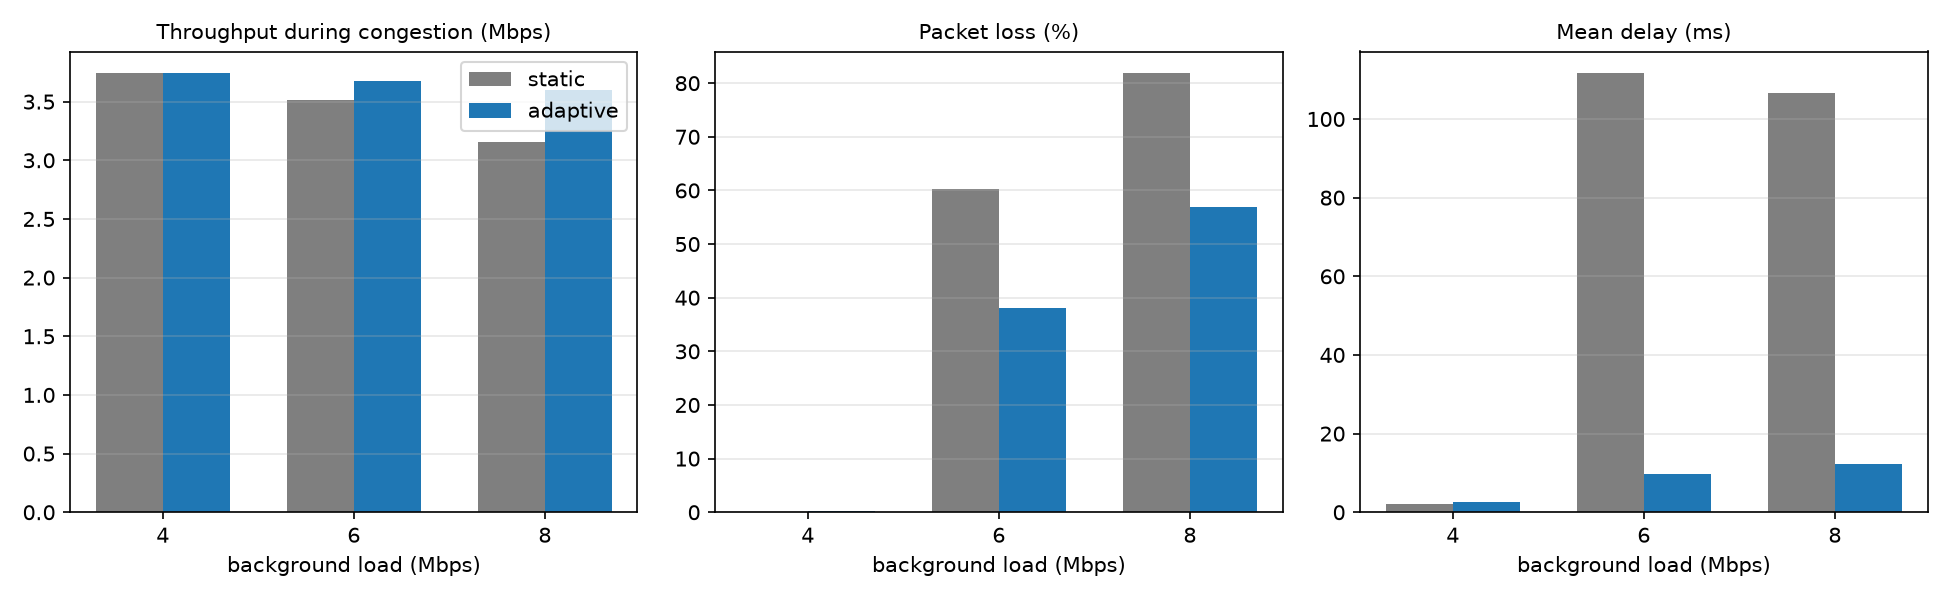
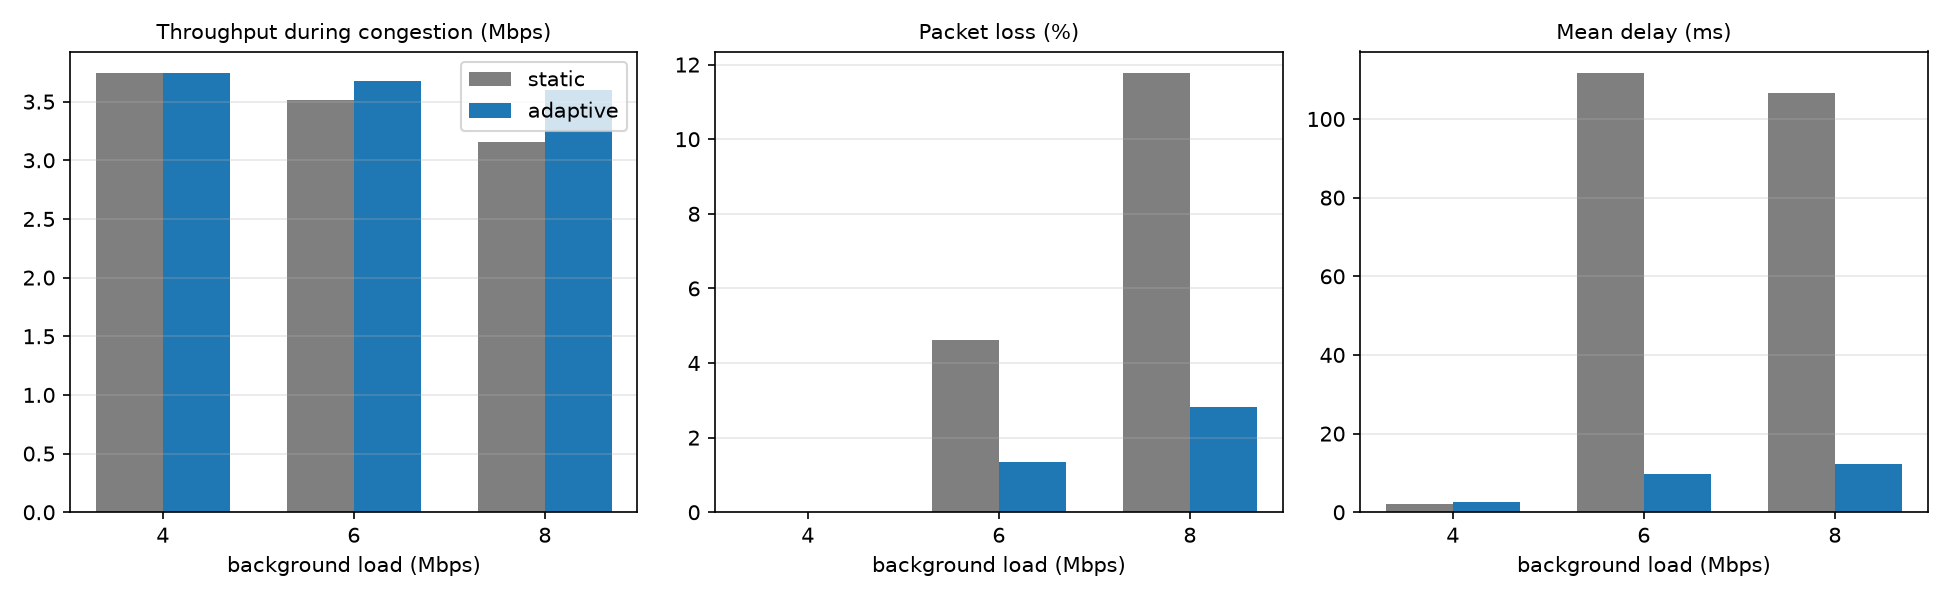
Finalize SDN congestion experiments and correct packet loss analysis

diff --git a/tests/test_util_plots.py b/tests/test_util_plots.py
@@ -72,10 +72,15 @@ class UtilPlotTests(unittest.TestCase):
         self.assertAlmostEqual(s["reroute_time_s"], 1.5)
 
     def test_loss_and_delay(self):
-        d = make_run(self.tmp, "static_6_20261120-102000", [4.0] * 10, lost={3: 125, 4: 125})
+        d = make_run(
+            self.tmp,
+            "static_6_20261120-102000",
+            [4.0] * 10,
+            lost={3: 125, 4: 125, 9: 125}
+        )
         s = up.summarize(d)
         got = 10 * 500
-        self.assertAlmostEqual(s["loss_pct"], 100.0 * 250 / (got + 250))
+        self.assertAlmostEqual(s["loss_pct"], 100.0 * 125 / (got + 125))
         self.assertAlmostEqual(s["mean_delay_ms"], 2.0)
 
     def test_empty_and_missing_files_do_not_crash(self):

diff --git a/analysis/util_plots.py b/analysis/util_plots.py
@@ -163,7 +163,7 @@ def summarize(run_dir, bg_start_s=BG_START_S):
         return sum(r["delay"] * r["rx"] for r in rows) / n if n > 0 else None
 
     got = sum(r["rx"] for r in rx)
-    lost = sum(r["lost"] for r in rx)
+    lost = rx[-1]["lost"] if rx else 0
     cong = [r["thr"] for r in rx if r["t"] >= t0 + bg_start_s]
     s = {
         "run_id": run_id, "mode": mode, "load_mbps": load,

diff --git a/analysis/app_metrics.py b/analysis/app_metrics.py
@@ -63,7 +63,7 @@ def main():
         plt.close()
 
     total_rx = df["rx_pkts"].sum()
-    total_lost = df["lost"].sum()
+    total_lost = df["lost"].iloc[-1] if not df.empty else 0
     loss_percent = (
         total_lost / (total_rx + total_lost) * 100
         if total_rx + total_lost > 0 else 0

diff --git a/README.md b/README.md
@@ -18,7 +18,7 @@ Hosts: h1 10.0.0.1 (app sender), h2 10.0.0.2 (app receiver), h3 10.0.0.3 (backgr
     P2 = s1 - s3 - s5
     P3 = s1 - s4 - s5
 
-All switch-to-switch links are 10 Mbps (TCLink, queue size 100). The ports of each path are listed in config/paths.json, which is the single source of truth for port numbers.
+All switch-to-switch links are 10 Mbps (TCLink, queue size 100). The ports of each path are listed in config/paths.json, which defines forward application-path ports. Reverse application-path ports are defined in config/paths_reverse.json; background-flow ports are currently defined in controller/forwarding.py.
 
 ## 3. Repository layout
 
@@ -26,7 +26,7 @@ All switch-to-switch links are 10 Mbps (TCLink, queue size 100). The ports of ea
     topology/     topo.py                                      (Person 2)
     controller/   main.py, forwarding.py                       (Person 2)
                   monitor.py                                   (Person 3)
-    config/       paths.json
+    config/       paths.json, paths_reverse.json
     tools/        reroute.py
     analysis/     app_metrics.py (Person 1), util_plots.py (Person 3)
     tests/        unit tests and FakeForwarding stub
@@ -85,7 +85,7 @@ Timeline of one run: t=0 the application starts at 4 Mbps, t=15 the background i
 Draw the graphs for one run, and build the static-versus-adaptive comparison:
 
     python3 analysis/util_plots.py results/<run_id>
-    python3 analysis/util_plots.py --compare results/static_* results/adaptive_*
+    python3 analysis/util_plots.py --compare <six selected congestion-run directories>
 
 ## 6. How it works
 
@@ -129,20 +129,83 @@ Recovery is measured in two ways. Reroute time = REROUTE_DONE minus CONGESTION_D
 
 ## 8. Results
 
-Static routing against adaptive routing (fill in after the experiment runs).
+We evaluated static and adaptive SDN routing using six congestion experiments.
+The application transmitted UDP traffic at a target rate of 4 Mbps, while
+background traffic on P1 was configured at 4, 6, and 8 Mbps.
+
+The table reports receiver throughput during the congested phase, estimated
+packet loss, mean packet delay, reroute time, and throughput recovery.
 
 | Background (Mbps) | Mode | Throughput during congestion (Mbps) | Loss (%) | Mean delay (ms) | Reroute time (s) | Throughput recovery (s) |
 |---|---|---|---|---|---|---|
-| 4 | static | TBD | TBD | TBD | - | TBD |
-| 4 | adaptive | TBD | TBD | TBD | TBD | TBD |
-| 6 | static | TBD | TBD | TBD | - | TBD |
-| 6 | adaptive | TBD | TBD | TBD | TBD | TBD |
-| 8 | static | TBD | TBD | TBD | - | TBD |
-| 8 | adaptive | TBD | TBD | TBD | TBD | TBD |
+| 4 | static | 3.74 | 0.00 | 2.03 | - | never |
+| 4 | adaptive | 3.74 | 0.00 | 2.59 | 0.00 | 0.0 |
+| 6 | static | 3.51 | 4.62 | 111.59 | - | 0.0 |
+| 6 | adaptive | 3.68 | 1.34 | 9.74 | 0.00 | 0.0 |
+| 8 | static | 3.15 | 11.76 | 106.54 | - | 24.4 |
+| 8 | adaptive | 3.60 | 2.83 | 12.19 | 0.01 | 1.2 |
 
-Graphs: results/comparison/comparison.png and results/<run_id>/run_plot.png.
+### Key findings
 
-Conclusion: TBD after the experiments.
+At 4 Mbps background load, both modes achieved approximately 3.74 Mbps
+throughput with no detected packet loss.
+
+At 6 Mbps background load, adaptive routing reduced estimated packet loss
+from 4.62% to 1.34%, while reducing mean delay from 111.59 ms to 9.74 ms.
+
+At 8 Mbps background load, adaptive routing:
+- Increased throughput from 3.15 Mbps to 3.60 Mbps (approximately 14.3%).
+- Reduced estimated packet loss from 11.76% to 2.83% (approximately 75.9%).
+- Reduced mean delay from 106.54 ms to 12.19 ms (approximately 88.6%).
+
+### Link-failure validation
+
+A separate adaptive-routing experiment tested link failure on the active P1
+path. The controller logged LINK_DOWN followed by REROUTE_DONE, switching
+the application flow from P1 to P3.
+
+The recorded interval between these events was approximately 0.614 seconds.
+This measures the controller's logged reroute completion interval, not
+necessarily full end-to-end traffic recovery.
+
+### Measurement notes
+
+The receiver identifies missing UDP packets using sequence-number gaps
+and removes gaps when reordered packets arrive.
+
+The reported loss percentage is calculated using the final outstanding
+missing-sequence count divided by received packets plus that count.
+It is an estimate, not an exact sender-to-receiver loss percentage:
+packets missing before the first received sequence or after the highest
+received sequence are not included.
+
+The comparison uses the original six congestion experiments. Separate
+link-failure experiments are excluded from the congestion comparison.
+
+These results represent individual experimental runs and should not be
+interpreted as statistically established performance guarantees.
+
+### Graphs
+
+- `results/comparison/comparison.png`
+- `results/comparison/comparison.csv`
+- `results/comparison/comparison.md`
+- `results/<run_id>/run_plot.png`
+
+### Conclusion
+
+The experiments demonstrate that adaptive SDN routing can improve UDP
+application performance when the initially selected path becomes congested.
+
+At higher background loads, rerouting the application flow to a less-loaded
+path improved receiver throughput and reduced estimated packet loss and
+delay compared with static routing.
+
+The controller also demonstrated successful path switching following a
+link-failure event.
+
+The results support the effectiveness of congestion-aware SDN routing
+within the tested Mininet topology and traffic conditions.
 
 ## 9. Tests
 

diff --git a/results/comparison/comparison.md b/results/comparison/comparison.md
@@ -1,8 +1,8 @@
 | Background (Mbps) | Mode | Throughput during congestion (Mbps) | Loss (%) | Mean delay (ms) | Reroute time (s) | Throughput recovery (s) |
 |---|---|---|---|---|---|---|
-| 4 | adaptive | 3.74 | 0.14 | 2.59 | 0.00 | 0.0 |
+| 4 | adaptive | 3.74 | 0.00 | 2.59 | 0.00 | 0.0 |
 | 4 | static | 3.74 | 0.00 | 2.03 | - | never |
-| 6 | adaptive | 3.68 | 38.05 | 9.74 | 0.00 | 0.0 |
-| 6 | static | 3.51 | 60.26 | 111.59 | - | 0.0 |
-| 8 | adaptive | 3.60 | 56.88 | 12.19 | 0.01 | 1.2 |
-| 8 | static | 3.15 | 81.81 | 106.54 | - | 24.4 |
+| 6 | adaptive | 3.68 | 1.34 | 9.74 | 0.00 | 0.0 |
+| 6 | static | 3.51 | 4.62 | 111.59 | - | 0.0 |
+| 8 | adaptive | 3.60 | 2.83 | 12.19 | 0.01 | 1.2 |
+| 8 | static | 3.15 | 11.76 | 106.54 | - | 24.4 |
